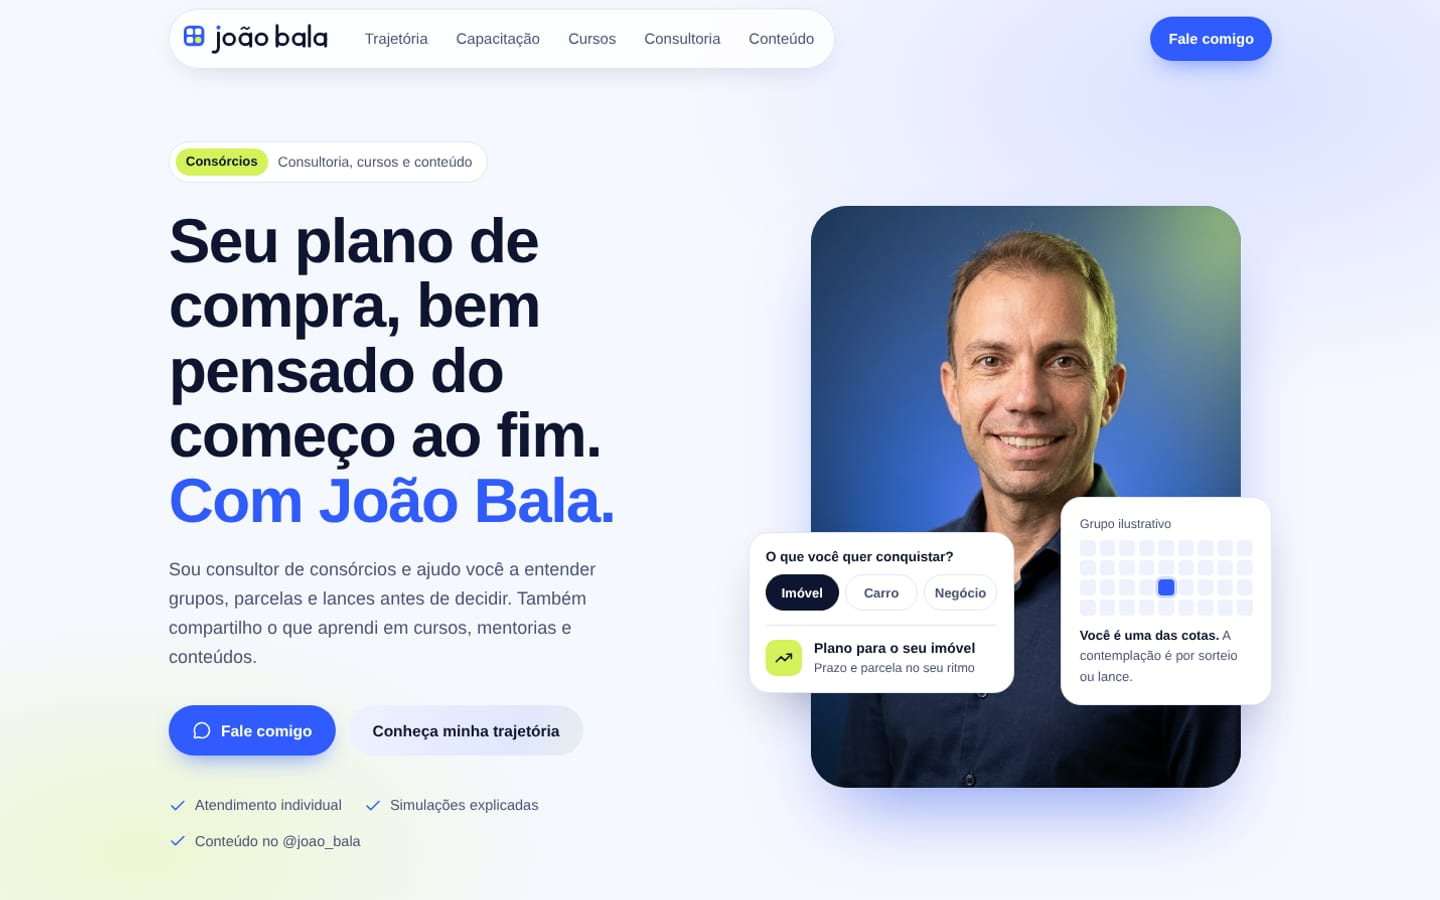
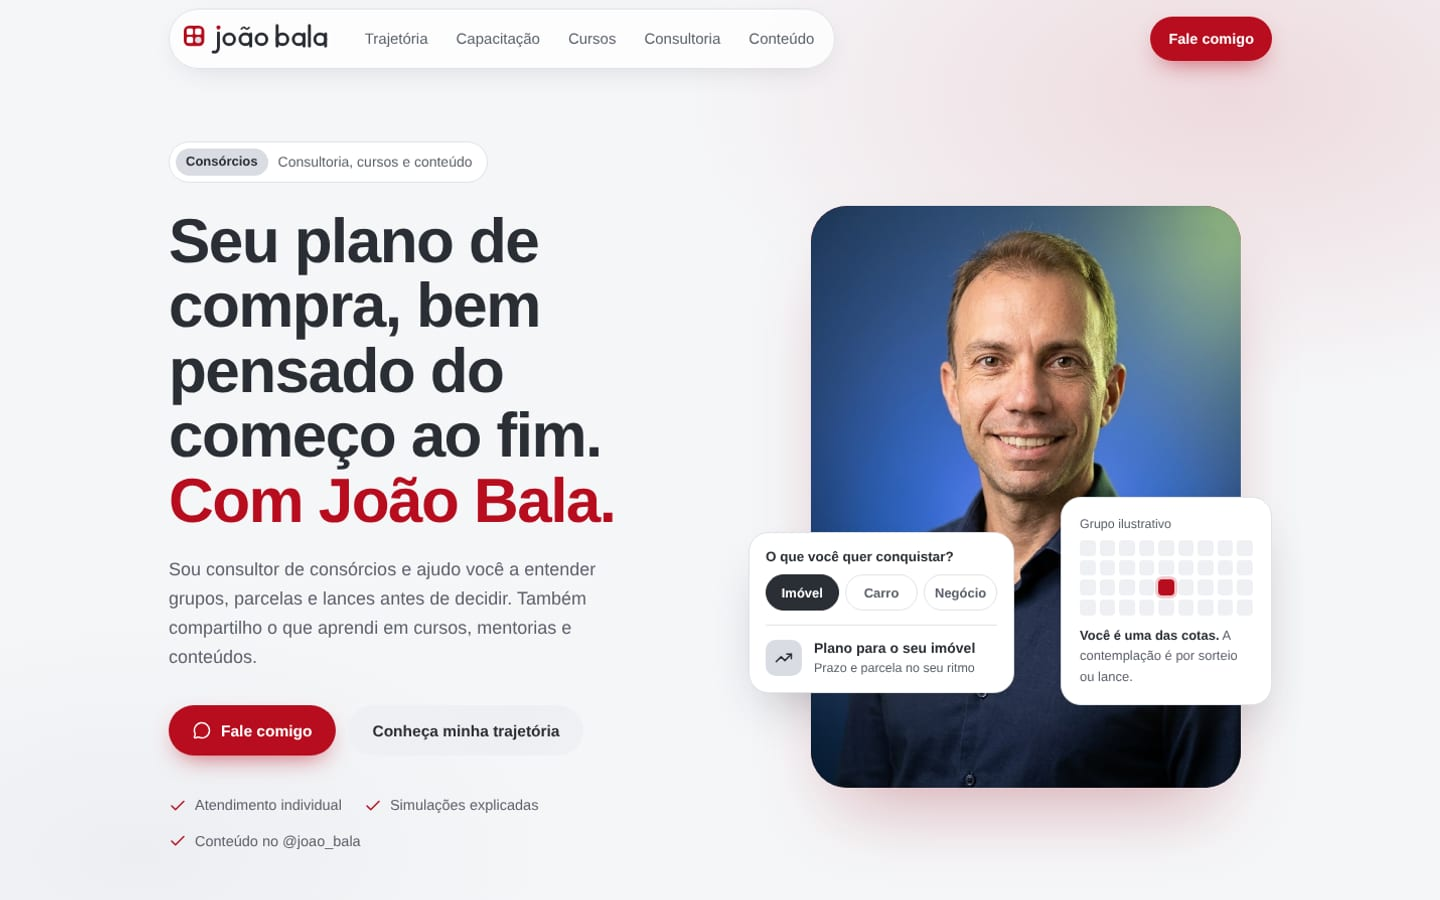
Portfólio: captura e cores do João Bala na nova paleta
Claude-Session: https://claude.ai/code/session_01NVaUzaiYwxwdXK6EwqGoXS

diff --git a/content/campanhas.ts b/content/campanhas.ts
@@ -31,11 +31,11 @@ export const campanhas: Campanha[] = [
     miniatura: "joao-bala",
     imagem: {
       src: "/campanhas/joao-bala.jpg",
-      alt: "Página do consultor João Bala: título Seu plano de compra, bem pensado do começo ao fim, ao lado da foto dele e de um grupo de cotas",
+      alt: "Página do consultor João Bala em vermelho e grafite: título Seu plano de compra, bem pensado do começo ao fim, ao lado da foto dele e de um grupo de cotas",
       largura: 1440,
       altura: 900,
     },
-    cores: ["#2F5BFF", "#D4F25A", "#0E1530", "#F6F7FB"],
+    cores: ["#B80D1E", "#2A2E35", "#D9DDE3", "#F5F6F8"],
   },
   {
     id: "rafa-duarte",
